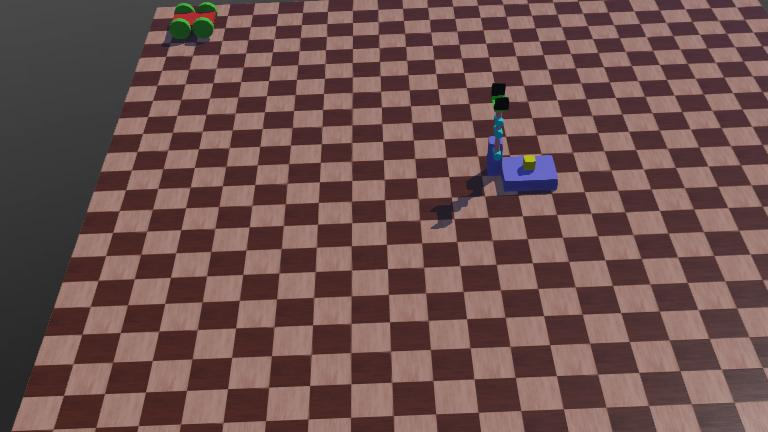
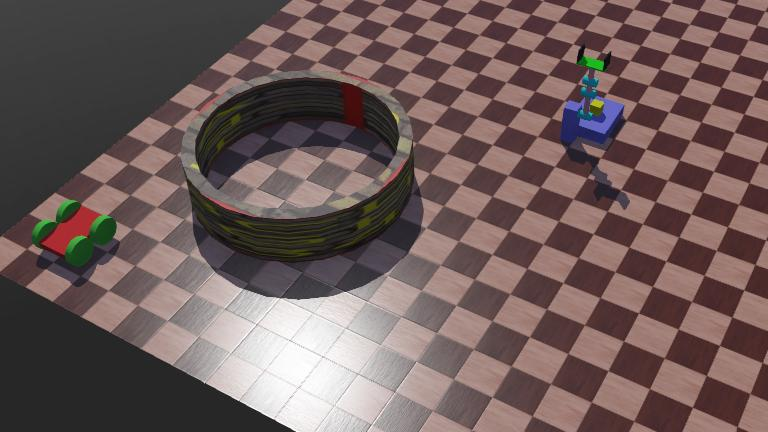
obstacle avoidance working

diff --git a/project/controllers/mobile_robot_controller/mobile_robot_controller.m b/project/controllers/mobile_robot_controller/mobile_robot_controller.m
@@ -60,6 +60,11 @@ wb_distance_sensor_enable(box_1, TIME_STEP);
 box_2 = wb_robot_get_device('load_sensor_2');
 wb_distance_sensor_enable(box_2, TIME_STEP);
 
+ds_dFL = wb_robot_get_device('ds_dFL');
+wb_distance_sensor_enable(ds_dFL, TIME_STEP);
+ds_dRL = wb_robot_get_device('ds_dRL');
+wb_distance_sensor_enable(ds_dRL, TIME_STEP);
+
 % initializing GPS module
 gps = wb_robot_get_device('gps');
 wb_gps_enable(gps, TIME_STEP);
@@ -365,7 +370,12 @@ while wb_robot_step(TIME_STEP) ~= -1
         vel_3 = 0;
         vel_4 = 0;
         SUBSTAGE = 0;
-        STAGE = 6;
+        % STAGE = 6;
+        if TARGET(1) == DESTINATION(1) & TARGET(2) == DESTINATION(2) 
+          STAGE = 100
+        else
+          STAGE = 6;
+        end
       else
         vel_1 = MAX_OMEGA;
         vel_2 = MAX_OMEGA;
